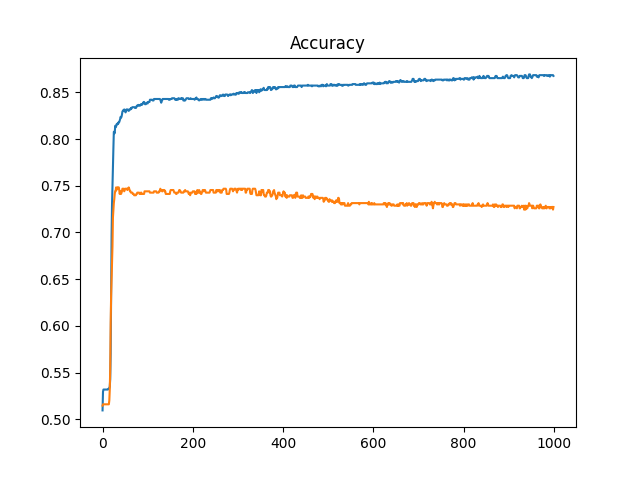
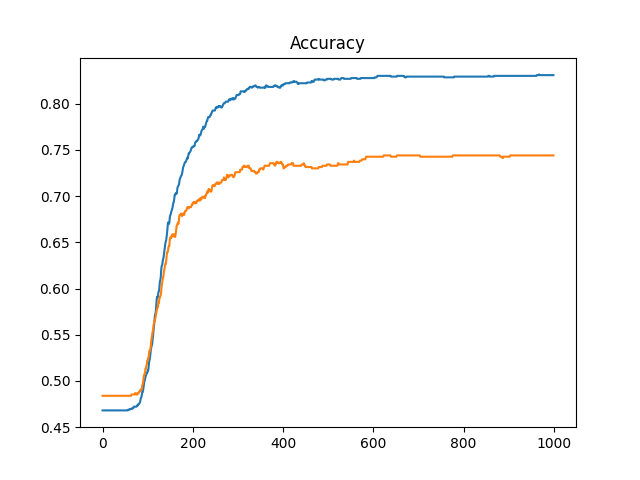
fix parameters, organize directory and readme

diff --git a/src/models.py b/src/models.py
@@ -22,7 +22,7 @@ class LogisticRegressionExecute:
     def __init__(self, config:dict, train_dl, test_dl, model:nn.Module=LogisticRegression):
         self.model = model(input_dim=303, output_dim=2) #TODO: fix to set from outside based on actual number of features
         self.epochs = config['hyperparameters']['epochs']
-        self.optimizer = Adam(filter(lambda p: p.requires_grad, self.model.parameters()))
+        self.optimizer = Adam(filter(lambda p: p.requires_grad, self.model.parameters()), lr=config['hyperparameters']['lr'])
         self.criterion = torch.nn.CrossEntropyLoss(weight=self.get_class_weights(train_dl, test_dl))
         self.train_dl= train_dl
         self.test_dl = test_dl
@@ -70,13 +70,13 @@ class LogisticRegressionExecute:
             total_labels += list(labels.float().cpu().numpy())
 
         accuracy = total_correct / len(total_preds)
+        total_loss = train_loss / len(total_preds)
         F1_global = metrics.f1_score(total_labels, total_preds).item()
-        print(f"loss: {train_loss}, accuracy:{accuracy}, F1:{F1_global}")
-        return train_loss, accuracy, F1_global
+        print(f"loss: {total_loss}, accuracy:{accuracy}, F1:{F1_global}")
+        return total_loss, accuracy, F1_global
             
     def validate(self, dl):
         self.model.eval()
-        self.optimizer.zero_grad()
         test_loss = 0
         total_correct = 0
         total_labels = []
@@ -94,9 +94,10 @@ class LogisticRegressionExecute:
             total_labels += list(labels.float().cpu().numpy())
     
         accuracy = total_correct / len(total_preds)
+        total_loss = test_loss / len(total_preds)
         F1_global = metrics.f1_score(total_labels, total_preds).item()
-        print(f"loss: {test_loss}, accuracy:{accuracy}, F1:{F1_global}")
-        return test_loss, accuracy, F1_global
+        print(f"loss: {total_loss}, accuracy:{accuracy}, F1:{F1_global}")
+        return total_loss, accuracy, F1_global
 
     def get_class_weights(self, train_dl, test_dl, label_field_name: str='label', classes:int=2):
         arr = torch.zeros(classes)

diff --git a/src/data_processing.py b/src/data_processing.py
@@ -4,10 +4,7 @@ import json
 from argparse import ArgumentParser
 import torch
 from torch.utils.data import DataLoader, TensorDataset
-
 from gensim.models import Word2Vec
-
-from models import LogisticRegressionExecute
 
 class ProcessData:
     def __init__(self, model, word2vec_model, config):
@@ -72,24 +69,3 @@ class ProcessData:
         test_labels = torch.tensor(test_df['label'].values)
         test = TensorDataset(test_features, test_labels)
         self.test_dl = DataLoader(test, batch_size=self.config['hyperparameters']['batch_size'], shuffle=True)  
-
-def main(kwargs, config):
-    model = kwargs['model']
-    word2vec_model = kwargs['word2vec']
-    dataset = ProcessData(model, word2vec_model, config)
-    dataset.create_dataloaders()
-    lr_executer = LogisticRegressionExecute(config[model], dataset.train_dl, dataset.test_dl)
-    lr_executer.fit()
-
-
-if __name__ == '__main__':
-    parser = ArgumentParser()
-    parser.add_argument('-m', '--model', help='Choose the model to train', required=False, choices=['logistic_regression'], default='logistic_regression')
-    parser.add_argument('-wm', '--word2vec', help='Choose the model to train', required=False, choices=['word2vec'], default='word2vec')
-    args = parser.parse_args()
-    kwargs = vars(args)
-
-    with open('src/config.json', 'r') as f:
-        config = json.load(f)
-
-    main(kwargs, config)

diff --git a/src/execute_flow.py b/src/execute_flow.py
@@ -1,0 +1,33 @@
+import json
+from argparse import ArgumentParser
+from data_processing import ProcessData
+from models import LogisticRegressionExecute
+
+
+def main(kwargs, config):
+    # get arhuments
+    model = kwargs['model']
+    word2vec_model = kwargs['word2vec']
+
+    # process the imput data and create dataloaders
+    dataset = ProcessData(model, word2vec_model, config)
+    dataset.create_dataloaders()
+
+    # execute logistic regression model
+    lr_executer = LogisticRegressionExecute(config[model], dataset.train_dl, dataset.test_dl)
+    lr_executer.fit()
+
+
+if __name__ == '__main__':
+    # parse arguments
+    parser = ArgumentParser()
+    parser.add_argument('-m', '--model', help='Choose the model to train', required=False, choices=['logistic_regression'], default='logistic_regression')
+    parser.add_argument('-wm', '--word2vec', help='Choose the model to train', required=False, choices=['word2vec'], default='word2vec')
+    args = parser.parse_args()
+    kwargs = vars(args)
+
+    # load configurations from config.json
+    with open('src/config.json', 'r') as f:
+        config = json.load(f)
+
+    main(kwargs, config)

diff --git a/src/plot_results.py b/src/plot_results.py
@@ -8,7 +8,6 @@ def plot_array_values_against_length(arr: list, title: str=''):
     ax.set_title(title)
     ax.plot(arr[0]) # train
     ax.plot(arr[1]) # test
-    # ax.plot(arr[2]) # test
     fig.savefig(f"plots/{title}.png")
     plt.show()
 

diff --git a/README.md b/README.md
@@ -1,12 +1,18 @@
 # Advanced-ML-Final-Project
 Development Repository for Advanced Machine Learning Final Project-
-Dreaddit, a new text corpus of lengthy multi-domain social media data for the identification of stress.
+`Dreaddit: A Reddit Dataset for Stress Analysis in Social Media`
 
 ## Environment
 - Use docker to create the requested environment
 `docker-compose up -d`
-- Develop and run scripts inside the container
+- In order to execute the model run under the root directory:
+`python src/execute_flow.py`
+
+* The `src/config.json` file lists the hyperparameters used during training and evaluation of the model, change them to get different results.
 
 ## Data
-- Move the Dreadit dataset under data/
-- Read the data to csv - **python src/data_processing.py**
+- Make the Dreadit dataset is located under `data/` directory
+
+## Results-
+- The flow prints to the terminal the loss, accuracy, and F1 score for each epoch.
+- At the end of the execution `plots/` directory will include 3 plots of the loss, accuracy, and F1 progress with respect to the epoch number.
